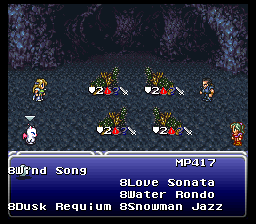
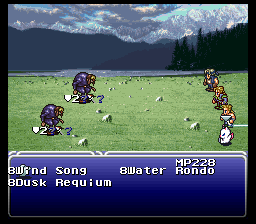
#541's sequel: pack MOG's battle Dance list and LOCKE's thief list; clamp both cursors
The Dance list ($267e) is built packed at InitSkills (Ot6DanceList,
ot6_dense.asm; vanilla's 20 bytes kept): the dances known in id order from
the first cell, then $ff.  The thief list (Ot6ThiefListOpen) puts the k-th
learned row at cell (k & 3) * 2 + k / 4, the list's own reading order (down
the left column, then the right), so a full list is laid out as before and a
row the story has not taught leaves no hole.  Every reader goes cell -> id
through the cell itself (draw, price/grey, confirm), so none changes.

Neither window scrolls; the cursor never rests past the last entry
(Ot6GridClamp: across the rows for the Dance list, down the columns for the
thief list): after a move (UpdateMenuState_21's store, the tools shell's
store in thief mode only) and on the open, before the first cursor frame
(OpenDanceWindow's head; Ot6ThiefListOpen).  Size-neutral splices in btlgfx
and battle_main.  The field thief page ("- LOCKED -") is untouched; nothing
in the save changes.

Harness: the dance suites (dancemp, danceodds, waterrondo, danceboost,
dancestep, dancestumble, mpfizzle) find a dance's cell in $267E (danceCell)
instead of cell = id, steering row first; boostkeep and mimicboost find the
thief row in $4005; lockekit asserts the packed layout from the event
switches; mastersmark finds Master's Mark.  The fight driver already steered
the thief list by id (lib/ot6.lua unchanged) and has no dance path.  New
[…]

diff --git a/tools/manual/manual.html b/tools/manual/manual.html
@@ -576,7 +576,8 @@
     <div class="char">
       <div class="charhead"><img class="portrait" src="img/portrait_locke.png" alt=""><span class="name">Locke</span><span class="job">Thief</span><span class="arms">dagger</span></div>
       <figure class="fig-right"><img class="shot" src="img/locke.png" alt="">
-        <figcaption>Locke's kit lives behind Steal. Locked rows open as the story goes on.</figcaption></figure>
+        <figcaption>Locke's kit lives behind Steal. Locked rows open as the story goes on; in battle the list shows
+        only the rows he has learned, from the top.</figcaption></figure>
       <p>Steal by boost: with 0 points it is the Steal you know. One point makes the steal likelier and the rare item
       likelier. Two points make both a lot likelier. Three points always succeed and take the rare item if there is
       one, the common item if not. A boost never makes up an item the enemy lacks.</p>
@@ -802,7 +803,7 @@
     <div class="char">
       <div class="charhead"><img class="portrait" src="img/portrait_mog.png" alt=""><span class="name">Mog</span><span class="job">Dancer</span><span class="arms">spear</span></div>
       <figure class="fig-right" style="width:1.6in"><img class="shot" src="img/mog.png" alt="">
-        <figcaption>Mog&rsquo;s Dance list, each Dance at 8 MP unboosted.</figcaption></figure>
+        <figcaption>Mog&rsquo;s Dance list: the Dances he knows, from the top, each at 8 MP unboosted.</figcaption></figure>
       <p class="small">Mog learns his eight Dances by fighting on each dance's terrain. Dances cost 8 MP, 20 with 1
       point, 50 with 2 and 99 with 3, and a boost multiplies every step. Off its own terrain a Dance may stumble: it
       fails half the time. 1 point cuts that to one in four, 2 points to one in 16, and 3 points to never. A stumble

diff --git a/docs/PLAYING.md b/docs/PLAYING.md
@@ -189,7 +189,8 @@ the steal likelier and the rare item likelier. Two points make both a lot
 likelier. Three points always succeed and take the rare item if there is one,
 the common item if not. A boost never makes up an item the enemy lacks.
 Only the first shield Filch takes becomes a point for Locke. His skills are
-in the list behind Steal.
+in the list behind Steal, the ones he has learned packed from the top in this
+table's order, down the left column and then the right.
 
 ### Edgar, Machinist (spear)
 
@@ -331,6 +332,8 @@ in FF6.
 ### Mog, Dancer (spear)
 
 Mog learns his eight Dances by fighting on each dance's terrain, as in FF6.
+His Dance list in battle shows the ones he knows, packed from the top in this
+table's order.
 
 | Dance | Terrain |
 |---|---|

diff --git a/docs/release-notes-next.md b/docs/release-notes-next.md
@@ -57,7 +57,10 @@ order, with spells lent by an Esper or a shield in their usual places among
 them. Strago's Lore list in battle shows his lores one under another. The
 Magic, Lore and Rage lists no longer scroll past their last entry, and the
 cursor no longer stops on an empty space. A muddled character can now pick a
-spell lent by an Esper, as well as the ones they know.
+spell lent by an Esper, as well as the ones they know. Mog's Dance list and the
+list behind Locke's Steal are packed the same way in battle: the dances Mog
+knows and the skills Locke has learned sit together from the top, with no gap
+for one still to come, and the cursor stays on them.
 
 ## Saves
 
